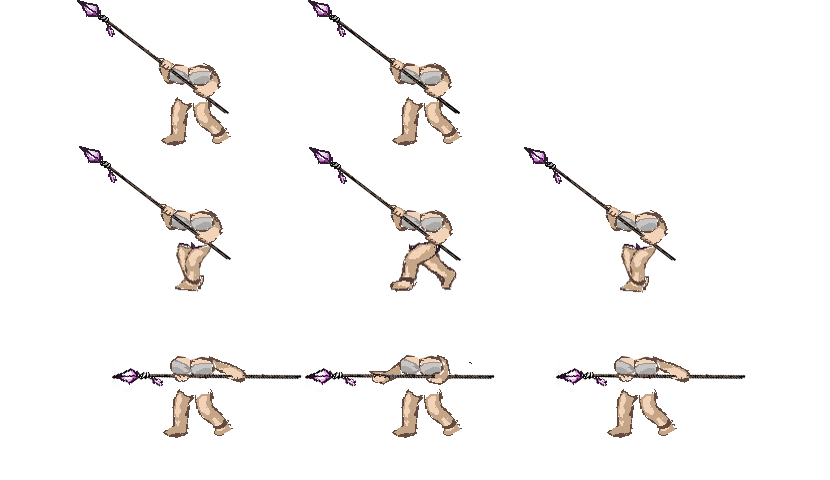
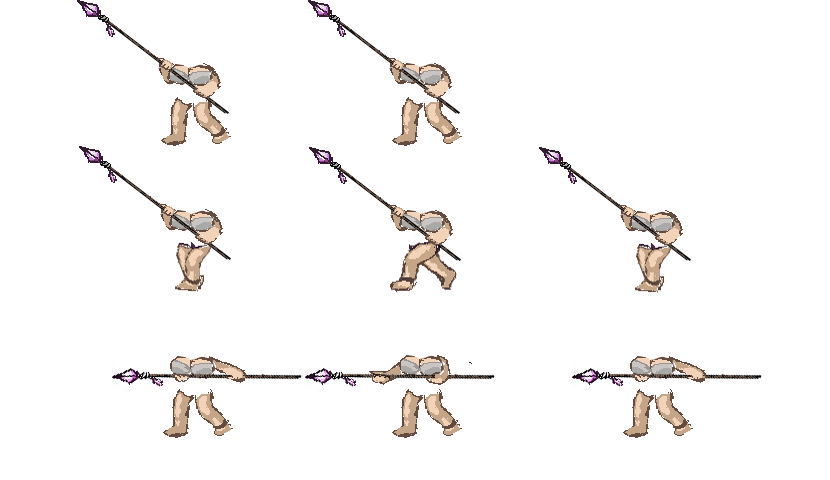
Run

Changed region(s): [[0.6627, 0.7188, 0.9337, 0.9062], [0.6325, 0.3125, 0.8434, 0.625], [0.4819, 0.125, 0.5422, 0.1875]]

diff --git a/Assets/Scripts/AllayController.cs b/Assets/Scripts/AllayController.cs
@@ -18,6 +18,7 @@ public class AllayController : UnitController
 	// Update is called once per frame
 	void Update ()
 	{
+		animator.SetBool("isRun", false);
 		if (order != Order.NONE) {
 			orderTimeLeft -= Time.deltaTime;
 			if (orderTimeLeft < 0 ) {
@@ -44,6 +45,7 @@ public class AllayController : UnitController
 				cooldown -= Time.deltaTime;
 				if (!enemyIsNear) {
 					Move();
+					animator.SetBool("isRun", true);
 				} else if(cooldown <= 0) {
 					Hit();
 				}
@@ -130,6 +132,7 @@ public class AllayController : UnitController
 		base.Start();
 		order = Order.NONE;
 		allies.Add(this);
+		animator = GetComponent<Animator>();
 	}
 	
 	public override void _Death()

diff --git a/Assets/Scripts/UnitController.cs b/Assets/Scripts/UnitController.cs
@@ -11,12 +11,14 @@ public abstract class UnitController : MonoBehaviour {
 	public Transform target;
 	public LayerMask whatIsEnemy;
 	public bool facingRight = false;
+	public Animator animator;
 
 	protected int _health;
 	protected Rigidbody2D _rigidbody2D;
 	protected float cooldown = 0;
 	protected Transform enemyChecker;
 	private int baseLayer;
+
 	
 	public void Hit() {
 		enemy.TakeADamage(damage);
